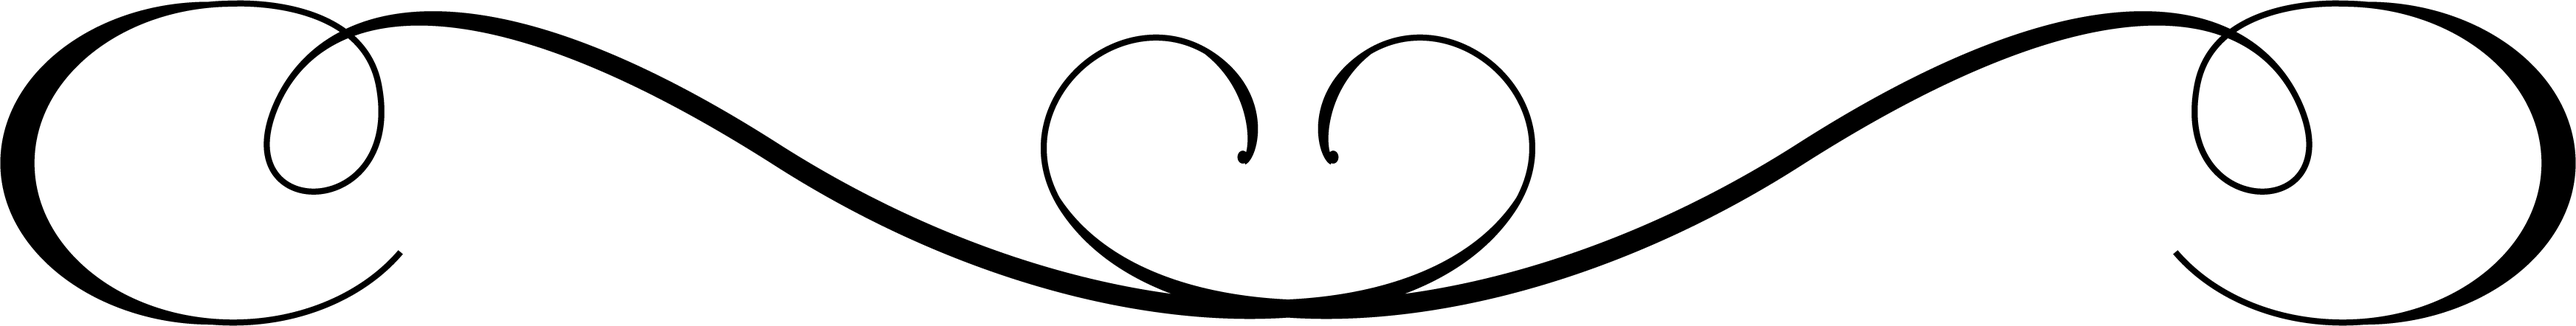
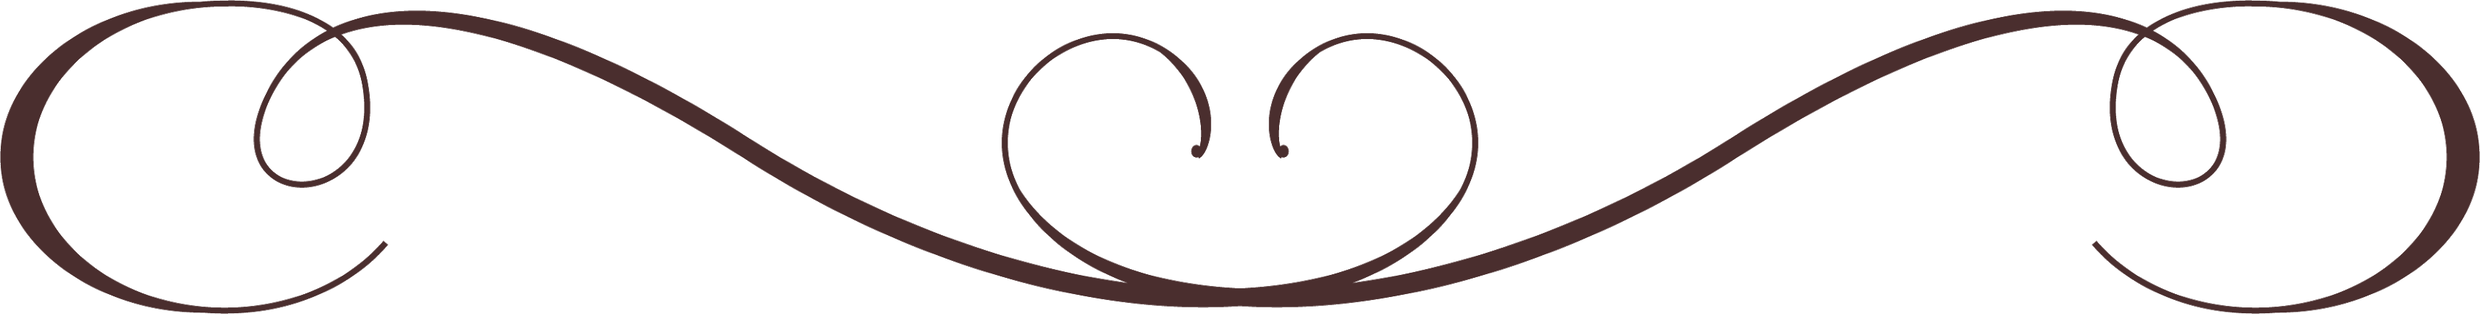
flower decoration

diff --git a/public/css/base-style-cree.css b/public/css/base-style-cree.css
@@ -15,6 +15,8 @@ body {
 .top-section {
   padding-top: 1%;
   padding-bottom: 1%;
+  background-color: #f1f0f0;
+  box-shadow: 0 1px 10px #52070752;
   margin: auto;
 }
 
@@ -27,9 +29,9 @@ p#title-text {
   /* BLUSH color: #c1938a; */
   /* color: #284c30; */
   margin: 0;
-  font-size: 3.7em;
+  font-size: 2.5em;
   font-weight: bold;
-  font-family: 'Great Vibes', cursive;
+  font-family: 'Crimson Text';
   text-align: center;
 }
 
@@ -128,7 +130,7 @@ hr.title-text-divider-2 {
   width: 75%;
   margin-left: auto;
   margin-right: auto;
-  margin-top: 3%;
+  margin-top: 10%;
   margin-bottom: 3%;
   padding-bottom: 100px;
   border-radius: 2px;
@@ -284,11 +286,33 @@ hr.title-text-divider-2 {
   color: #965e5a;
 }
 
-#announcement-text-main-names {
+#announcement-text-main-allison {
+  font-family: 'Great Vibes', cursive;
   padding-left: 10%;
   padding-right: 10%;
   margin: 0;
-  font-size: 3.5em;
+  font-size: 5.75em;
+  /* text-shadow: 1px 1px #c7b6b6; */
+}
+
+#announcement-text-main-and {
+  font-family: 'Great Vibes', cursive;
+  padding-left: 10%;
+  padding-right: 10%;
+  margin-left: auto;
+  margin-right: auto;
+  margin-top: 2%;
+  margin-bottom: 2%;
+  font-size: 3em;
+  /* text-shadow: 1px 1px #c7b6b6; */
+}
+
+#announcement-text-main-louis {
+  font-family: 'Great Vibes', cursive;
+  padding-left: 10%;
+  padding-right: 10%;
+  margin: 0;
+  font-size: 5.75em;
   /* text-shadow: 1px 1px #c7b6b6; */
 }
 
@@ -298,12 +322,12 @@ hr.title-text-divider-2 {
   padding-right: 10%;
   margin: 0;
   font-size: 1.5em;
-  font-weight: 300;
+  font-weight: bold;
   color: #96867f;
 }
 
 #announcement-text-main-date {
-  margin-top: 35px;
+  margin-top: 5%;
 }
 
 #announcement-text-main-location {
@@ -425,6 +449,8 @@ hr.title-text-divider-2 {
 
 .visitor-site-divider > img {
   width: 75px;
+  opacity: 0.8;
+  filter: alpha(opacity=80);
 }
 
 .card-divider-bottom {
@@ -432,7 +458,9 @@ hr.title-text-divider-2 {
 }
 
 .card-divider-bottom > img {
-  width: 60%
+  width: 33%;
+  opacity: 0.6;
+  filter: alpha(opacity=60);
 }
 
 /* EVENTS */
@@ -577,4 +605,35 @@ p.accommodations-title {
 
 #zola-registry-container {
   padding-top: 2%;
+}
+
+#flower-top-left > img{
+  position: absolute;
+  z-index: -1;
+  top: 15%;
+  left: 2%;
+  width: 25%;
+}
+
+#flower-top-left-2 > img{
+  position: absolute;
+  z-index: -1;
+  top: 15%;
+  left: 8%;
+  width: 25%;
+}
+#flower-top-left-3 > img{
+  position: absolute;
+  z-index: -1;
+  top: 80%;
+  left: 75%;
+  width: 25%;
+}
+
+#flower-top-left-4 > img{
+  position: absolute;
+  z-index: -1;
+  top: 85%;
+  left: 66%;
+  width: 25%;
 }

diff --git a/public/css/base-style.css b/public/css/base-style.css
@@ -15,7 +15,7 @@ body {
 .top-section {
   padding-top: 1%;
   padding-bottom: 1%;
-  background-color: #fdf7f4;
+  background-color: #f1f0f0;
   box-shadow: 0 1px 10px #52070752;
   margin: auto;
 }
@@ -29,9 +29,9 @@ p#title-text {
   /* BLUSH color: #c1938a; */
   /* color: #284c30; */
   margin: 0;
-  font-size: 3.7em;
+  font-size: 2.5em;
   font-weight: bold;
-  font-family: 'Great Vibes', cursive;
+  font-family: 'Crimson Text';
   text-align: center;
 }
 
@@ -286,11 +286,33 @@ hr.title-text-divider-2 {
   color: #965e5a;
 }
 
-#announcement-text-main-names {
+#announcement-text-main-allison {
+  font-family: 'Great Vibes', cursive;
   padding-left: 10%;
   padding-right: 10%;
   margin: 0;
-  font-size: 3.5em;
+  font-size: 5.75em;
+  /* text-shadow: 1px 1px #c7b6b6; */
+}
+
+#announcement-text-main-and {
+  font-family: 'Great Vibes', cursive;
+  padding-left: 10%;
+  padding-right: 10%;
+  margin-left: auto;
+  margin-right: auto;
+  margin-top: 2%;
+  margin-bottom: 2%;
+  font-size: 3em;
+  /* text-shadow: 1px 1px #c7b6b6; */
+}
+
+#announcement-text-main-louis {
+  font-family: 'Great Vibes', cursive;
+  padding-left: 10%;
+  padding-right: 10%;
+  margin: 0;
+  font-size: 5.75em;
   /* text-shadow: 1px 1px #c7b6b6; */
 }
 
@@ -305,7 +327,7 @@ hr.title-text-divider-2 {
 }
 
 #announcement-text-main-date {
-  margin-top: 35px;
+  margin-top: 5%;
 }
 
 #announcement-text-main-location {
@@ -427,6 +449,8 @@ hr.title-text-divider-2 {
 
 .visitor-site-divider > img {
   width: 75px;
+  opacity: 0.8;
+  filter: alpha(opacity=80);
 }
 
 .card-divider-bottom {
@@ -434,7 +458,9 @@ hr.title-text-divider-2 {
 }
 
 .card-divider-bottom > img {
-  width: 60%
+  width: 33%;
+  opacity: 0.6;
+  filter: alpha(opacity=60);
 }
 
 /* EVENTS */
